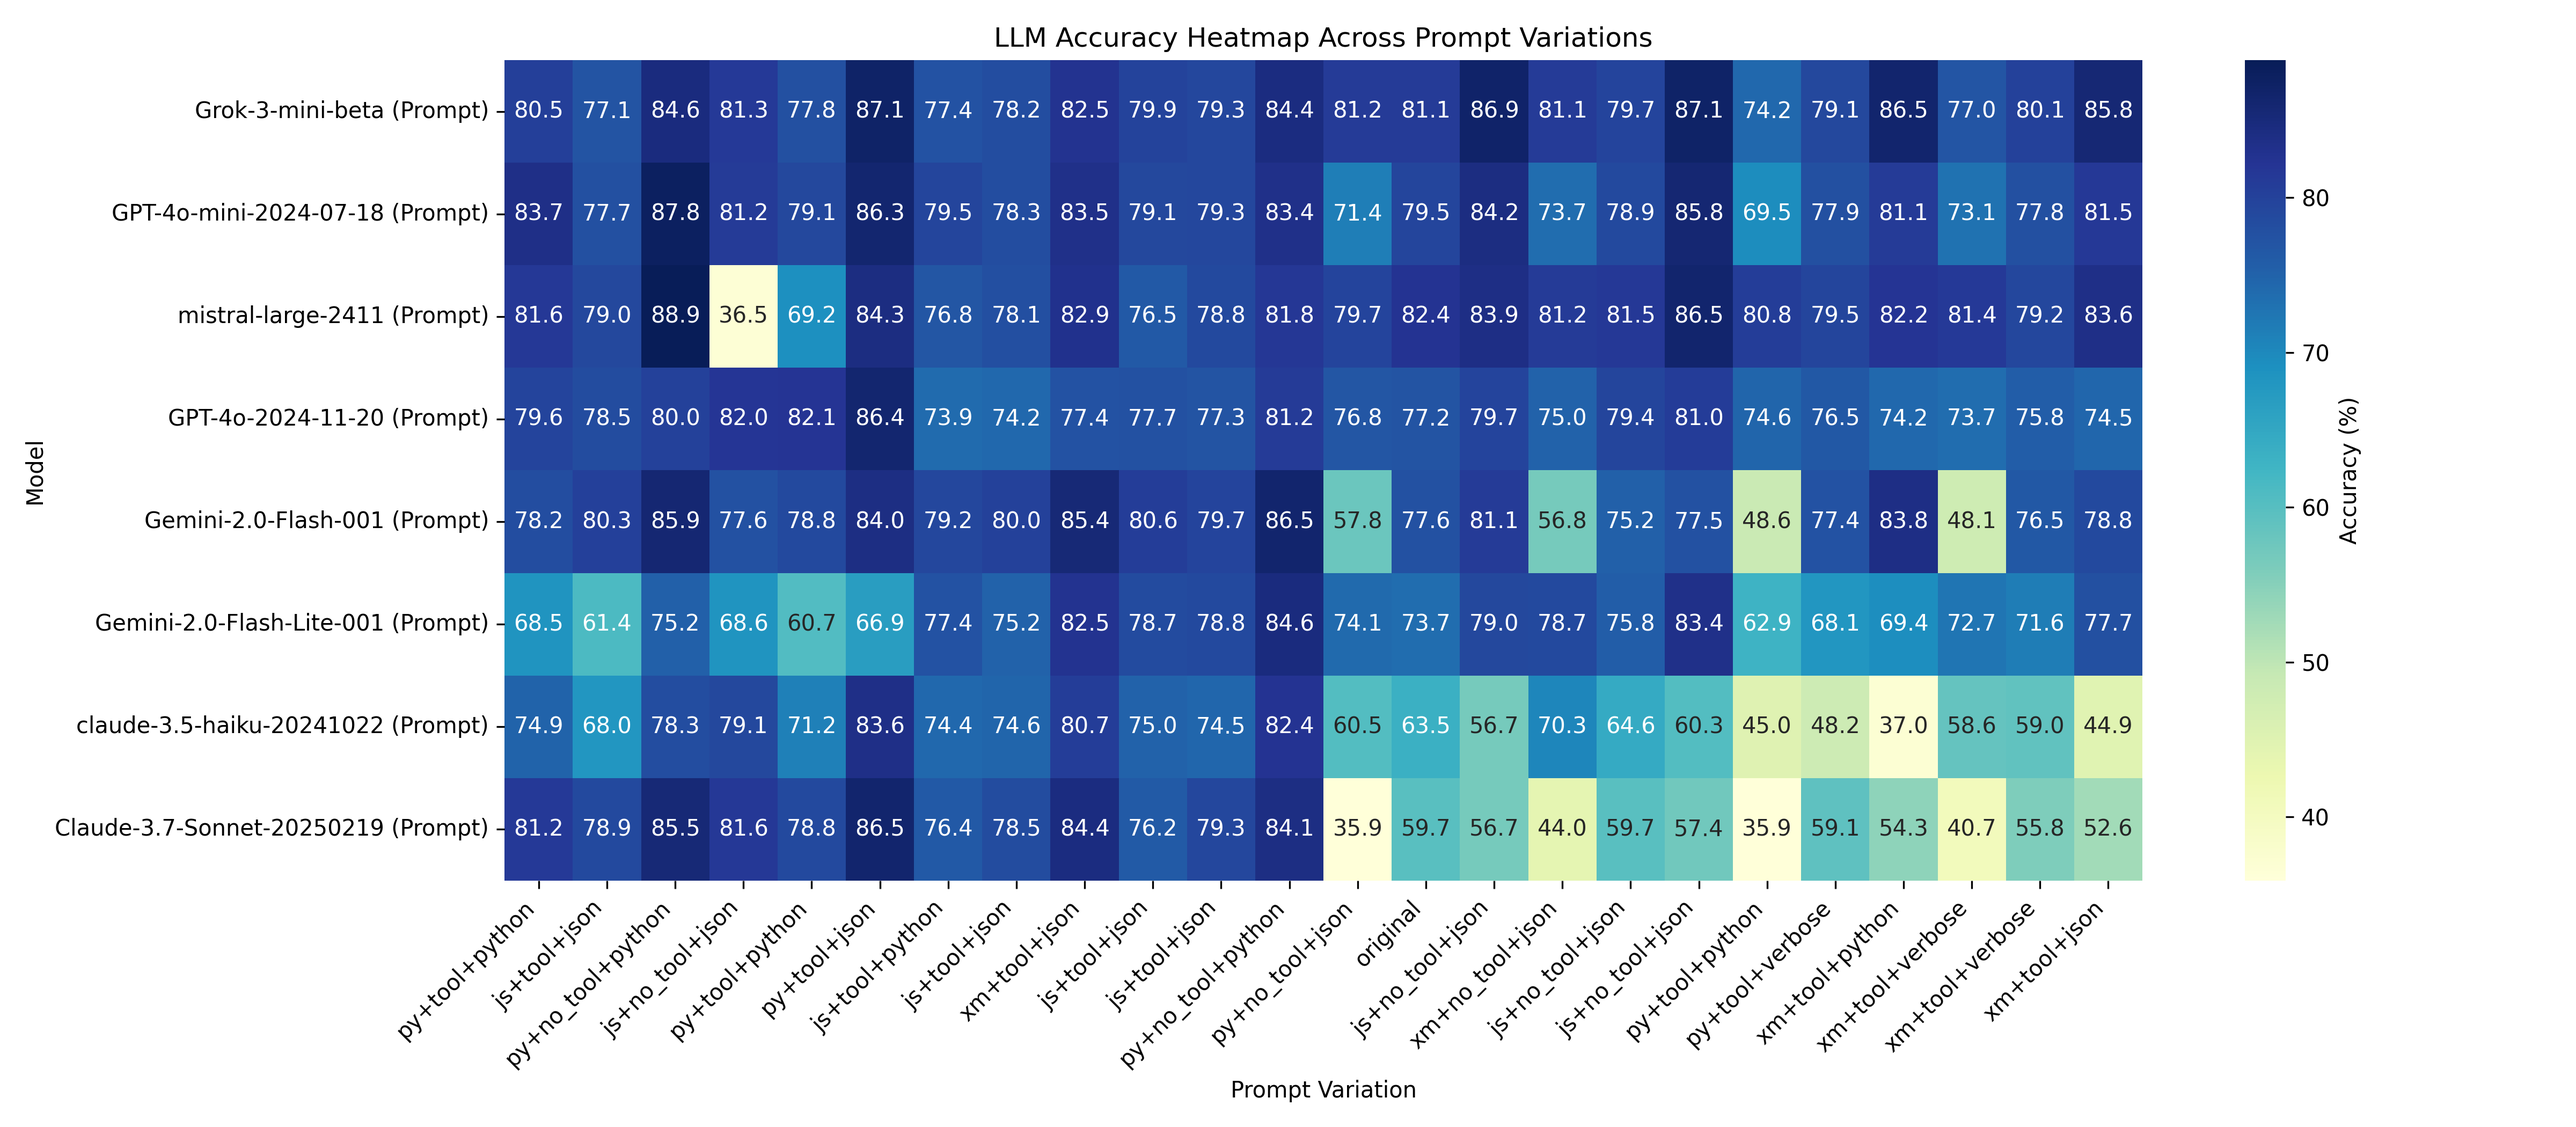
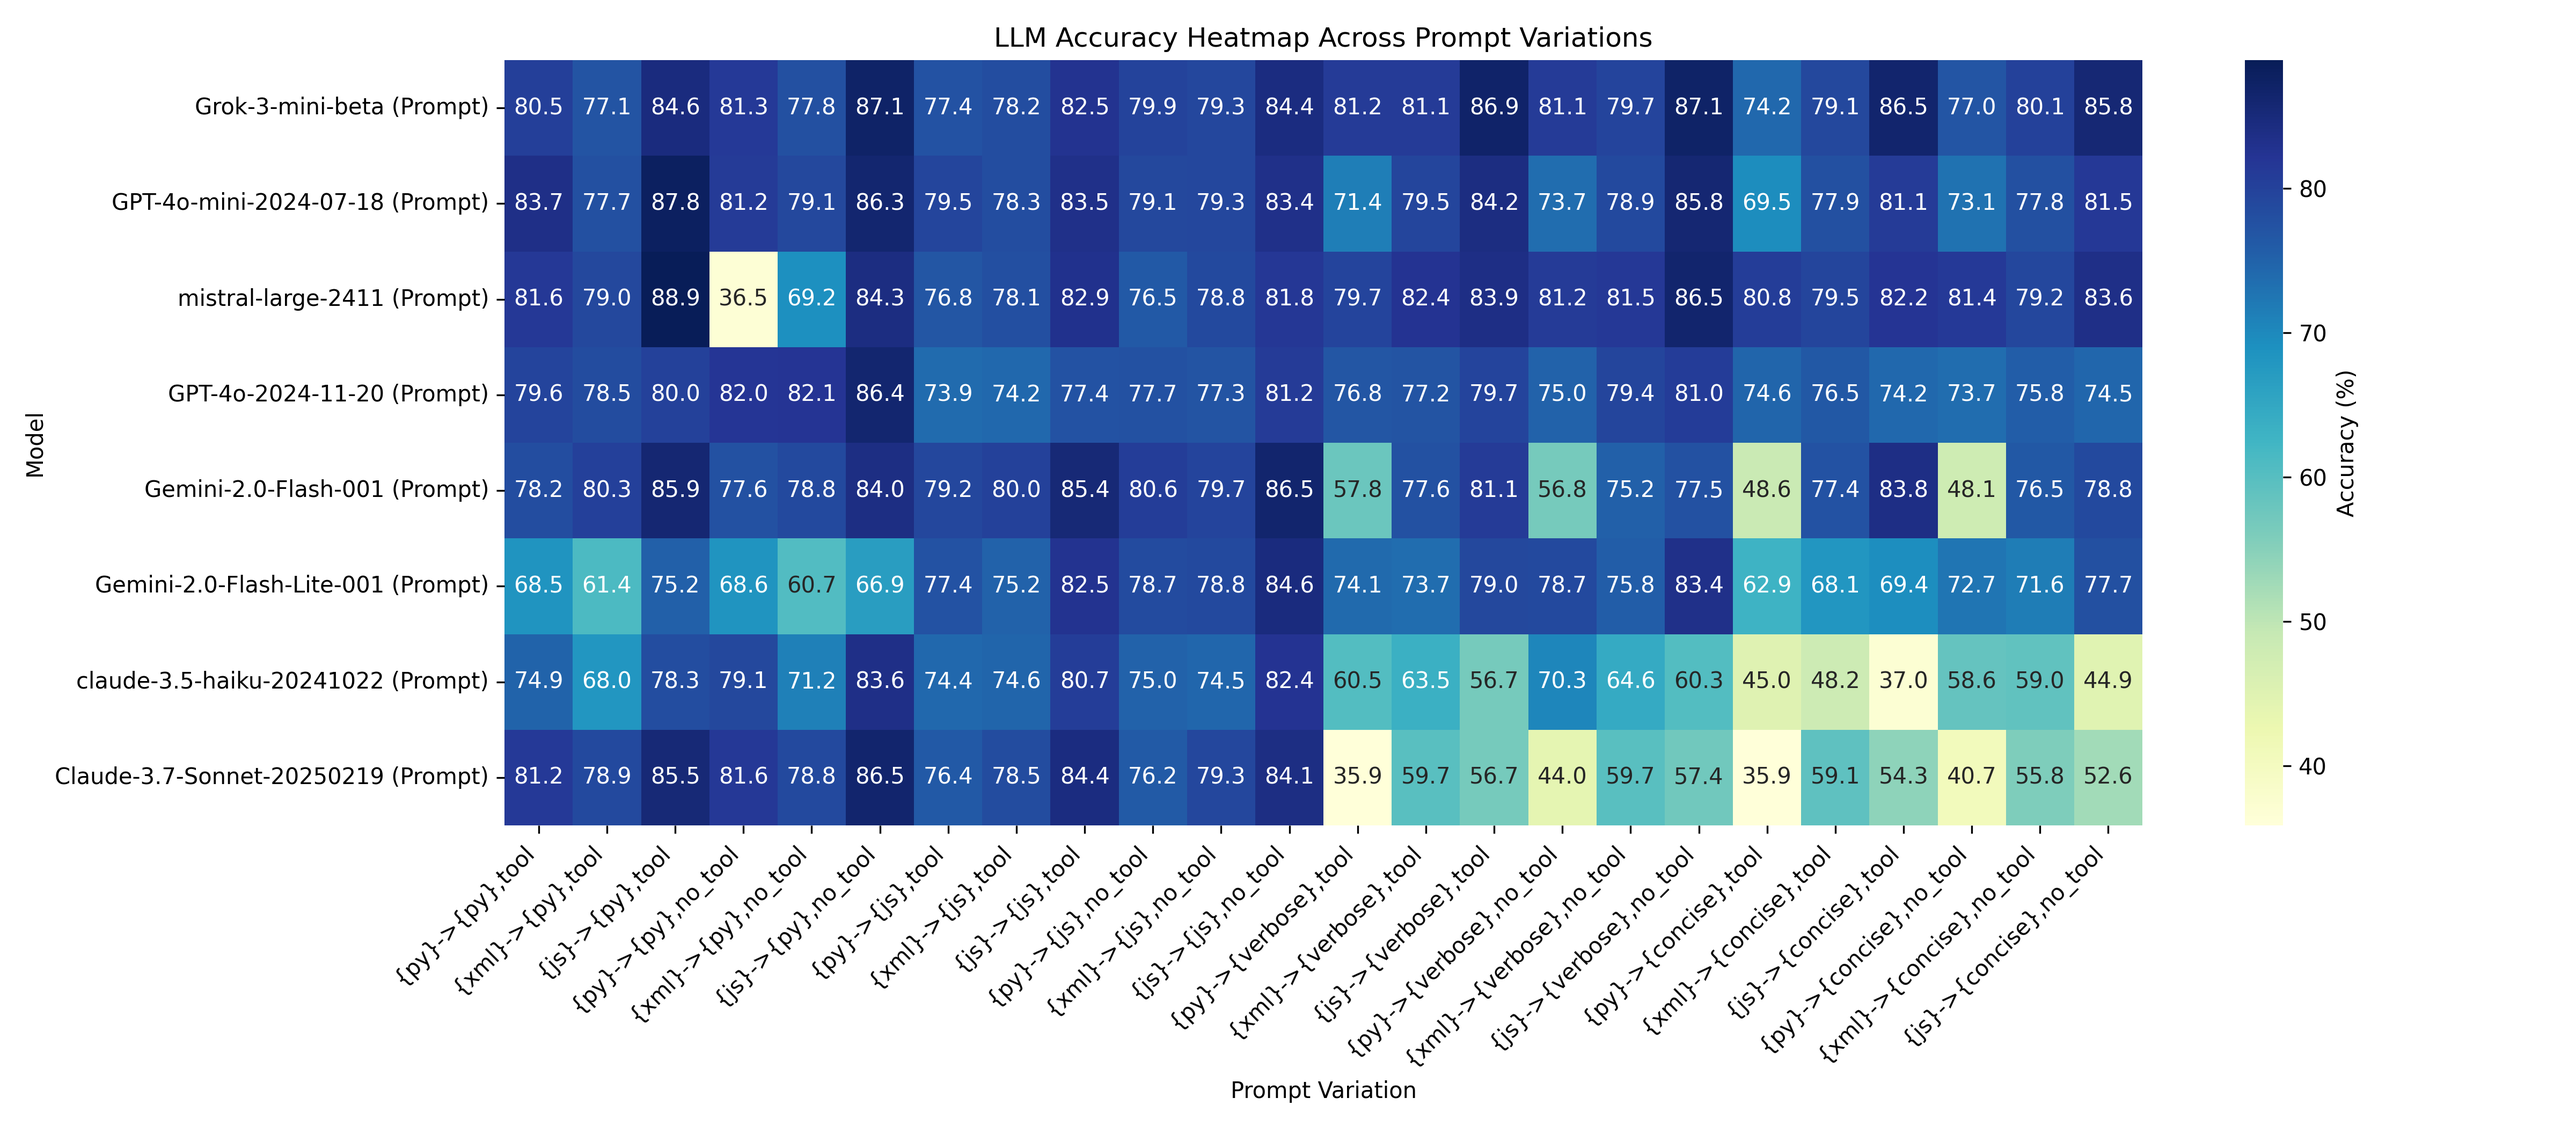
fix generate_heatmap

diff --git a/berkeley-function-call-leaderboard/score/generate_heatmap.py b/berkeley-function-call-leaderboard/score/generate_heatmap.py
@@ -27,11 +27,42 @@ short_columns = [
     if 'prompt_format_plaintext' in col
 ]
 
-# Apply short column names
+short_columns = []
+for i in range(0, len(df.columns)):
+    func_doc_format = ""
+    return_format = ""
+    tool_tag = ""
+    if "function_doc_format_python" in df.columns[i]:
+        func_doc_format = "py"
+    elif "function_doc_format_json" in df.columns[i]:
+        func_doc_format = "js"
+    elif "function_doc_format_xml" in df.columns[i]:
+        func_doc_format = "xml"
+    else:
+        print(f"function doc format invalid")
+    
+    if "return_format_python" in df.columns[i] or "return_format_Python" in df.columns[i]:
+        return_format = "py"
+    elif "return_format_json" in df.columns[i]:
+        return_format = "js"
+    elif "return_format_verbose_xml" in df.columns[i]:
+        return_format = "verbose"
+    elif "return_format_concise_xml" in df.columns[i]:
+        return_format = "concise"
+    else:
+        print(f"return format invalid")
+
+    if "has_tool_call_tag_True" in df.columns[i]:
+        tool_tag = "tool"
+    elif "has_tool_call_tag_False" in df.columns[i]:
+        tool_tag = "no_tool"
+    else:
+        print(f"tool tag invalid")
+    short_columns.append(f"{{{func_doc_format}}}->{{{return_format}}},{tool_tag}")
+
 df.columns = short_columns[:len(df.columns)]
 
-# Rename 'js+no_tool+python' to 'original'
-df = df.rename(columns={'js+no_tool+python': 'original'})
+df = df.rename(columns={'{js}->{python},no_tool': 'original'})
 
 # Convert to float (remove % signs if present)
 df = df.applymap(lambda x: float(str(x).replace('%', '')))

diff --git a/berkeley-function-call-leaderboard/score_200/generate_heatmap.py b/berkeley-function-call-leaderboard/score_200/generate_heatmap.py
@@ -26,7 +26,43 @@ short_columns = [
     for out in ["python", "json", "verbose", "concise"] if out in col
     if 'prompt_format_plaintext' in col
 ]
+
+short_columns = []
+for i in range(0, len(df.columns)):
+    func_doc_format = ""
+    return_format = ""
+    tool_tag = ""
+    if "function_doc_format_python" in df.columns[i]:
+        func_doc_format = "py"
+    elif "function_doc_format_json" in df.columns[i]:
+        func_doc_format = "js"
+    elif "function_doc_format_xml" in df.columns[i]:
+        func_doc_format = "xml"
+    else:
+        print(f"function doc format invalid")
+    
+    if "return_format_python" in df.columns[i] or "return_format_Python" in df.columns[i]:
+        return_format = "py"
+    elif "return_format_json" in df.columns[i]:
+        return_format = "js"
+    elif "return_format_verbose_xml" in df.columns[i]:
+        return_format = "verbose"
+    elif "return_format_concise_xml" in df.columns[i]:
+        return_format = "concise"
+    else:
+        print(f"return format invalid")
+
+    if "has_tool_call_tag_True" in df.columns[i]:
+        tool_tag = "tool"
+    elif "has_tool_call_tag_False" in df.columns[i]:
+        tool_tag = "no_tool"
+    else:
+        print(f"tool tag invalid")
+    short_columns.append(f"{{{func_doc_format}}}->{{{return_format}}},{tool_tag}")
+
 df.columns = short_columns[:len(df.columns)]
+
+df = df.rename(columns={'{js}->{python},no_tool': 'original'})
 
 # Convert to float (remove % signs if present)
 df = df.applymap(lambda x: float(str(x).replace('%', '')))
